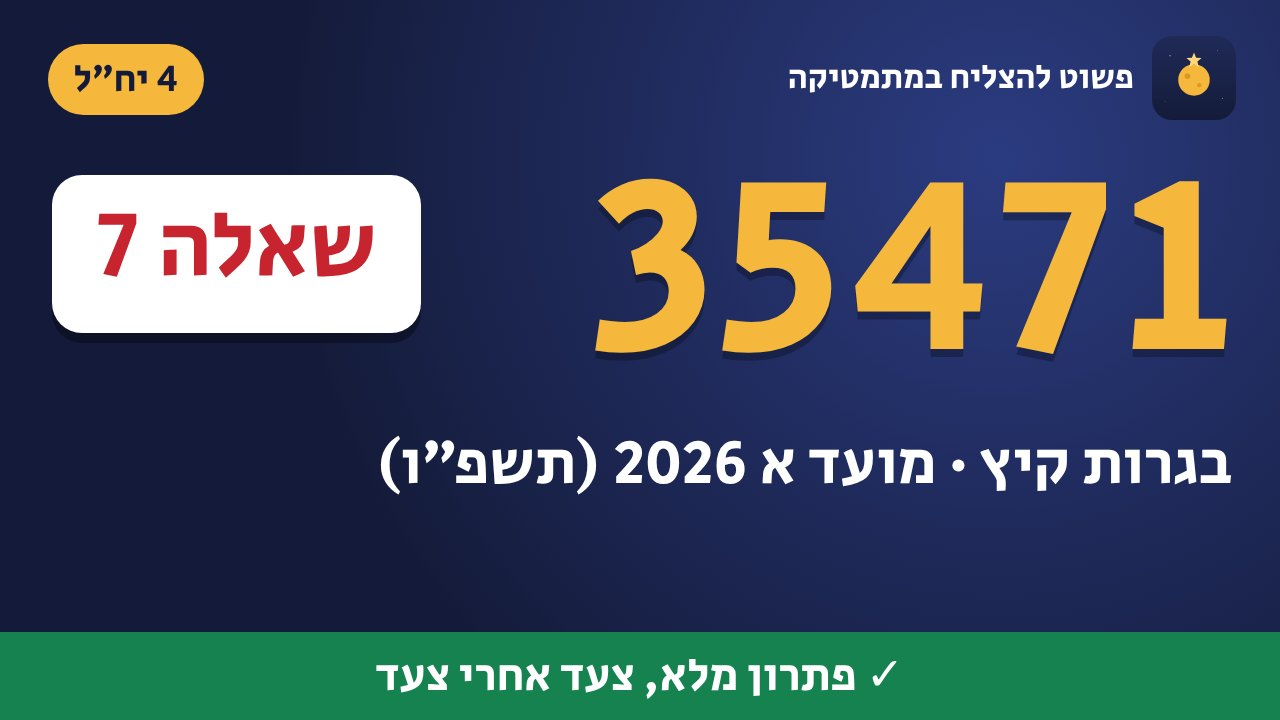
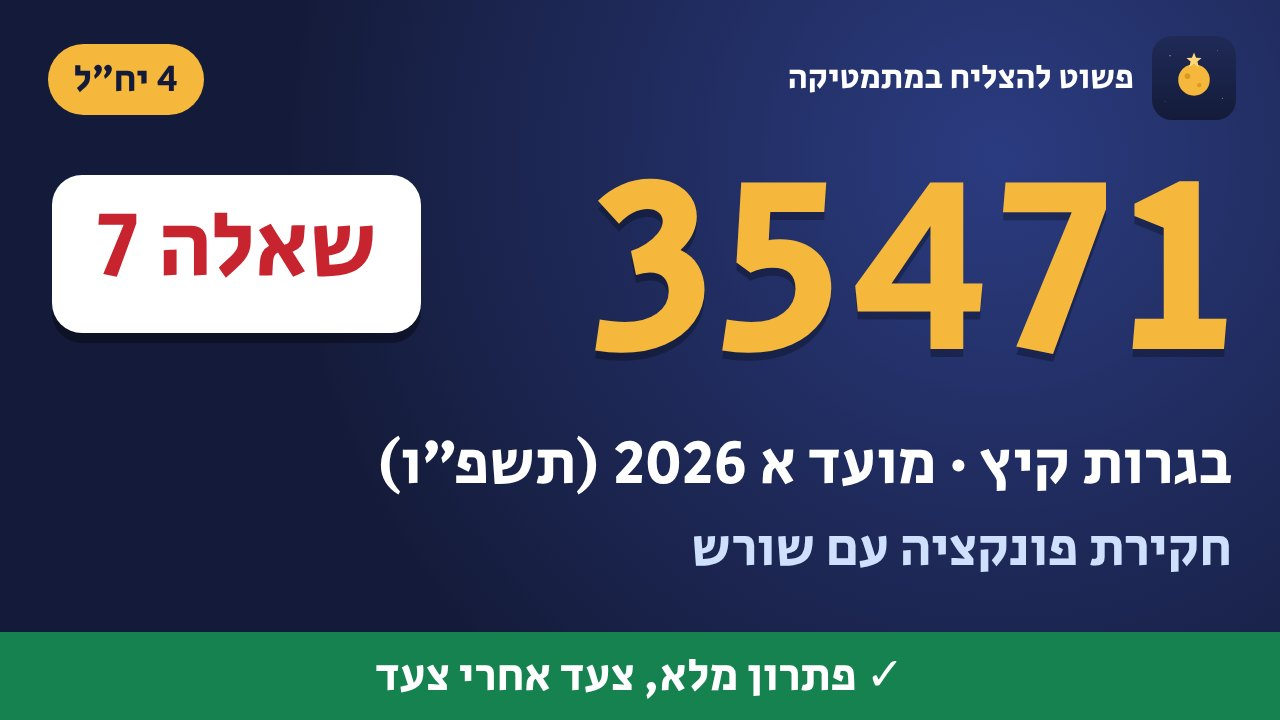
YouTube search visibility: thumbnails, playlists per questionnaire, generated titles/descriptions with chapters; playbook 5ב updated
Claude-Session: https://claude.ai/code/session_01CtRsXLRocvQwFDtsuAtwsF

Changed region(s): [[0.5312, 0.7333, 0.9688, 0.7944]]

diff --git a/tools/video/yt_meta.py b/tools/video/yt_meta.py
@@ -7,6 +7,7 @@ SEAS={8:"קיץ מועד ב",6:"קיץ מועד א",1:"חורף"}[m]
 HY={2022:'תשפ"ב',2023:'תשפ"ג',2024:'תשפ"ד',2025:'תשפ"ה',2026:'תשפ"ו',2027:'תשפ"ז'}.get(y,"")
 LV=qid[2]+' יח"ל'
 src=open(os.path.join(HERE,"exams",K,f"q{n}.py"),encoding="utf-8").read()
+if "intro2(" not in src and os.path.exists(os.path.join(HERE,"exams",K,f"s{n}.py")): src=open(os.path.join(HERE,"exams",K,f"s{n}.py"),encoding="utf-8").read()   # דוגמת סגנון 2
 mm=re.search(r'intro2\(\s*\d+\s*,\s*"([^"]*)"\s*,\s*"([^"]*)"',src)
 topic,sub=(mm.group(1),mm.group(2)) if mm else ("","")
 title=f"בגרות {qid} {SEAS} {y} שאלה {n} – {topic} | פתרון מלא"
@@ -23,6 +24,6 @@ if len(ch)>=3: D+=["פרקים:"]+[f"{ts(c['t'])} {c['l']}" for c in ch]+[""]
 D+=["פשוט להצליח במתמטיקה · אוראל פנחסי",f"#בגרות #מתמטיקה #{qid} #בגרות_במתמטיקה"]
 tags=[f"בגרות {qid}",f"{qid} {SEAS} {y}",f"{qid} {y}",f"פתרון בגרות {qid}",f"בגרות במתמטיקה {LV}",f"בגרות {SEAS} {y}",
       f"בגרות {HY}",topic,"בגרות במתמטיקה","פתרון בגרות","פשוט להצליח במתמטיקה","אוראל פנחסי"]
-out={"title":title,"description":"\n".join(D),"tags":[t.replace('"',"״") for t in tags if t],
+out={"title":title,"description":"\n".join(D),"tags":[t.replace('"',"״").replace(",","") for t in tags if t],
      "video":f"{BASE}media/yt/yt_{K}_{n}.mp4","thumbnail":f"{BASE}media/thumbs/{K}_{n}.jpg"}
 print(json.dumps(out,ensure_ascii=False,indent=1))

diff --git a/tools/video/thumb.py b/tools/video/thumb.py
@@ -11,6 +11,7 @@ font=base64.b64encode(open(os.path.join(HERE,"SecularOne.ttf"),"rb").read()).dec
 logo=open(os.path.join(HERE,"logo.svg"),encoding="utf-8").read()
 def topic(n):
   t=open(os.path.join(HERE,"exams",K,f"q{n}.py"),encoding="utf-8").read()
+  if "intro2(" not in t and os.path.exists(os.path.join(HERE,"exams",K,f"s{n}.py")): t=open(os.path.join(HERE,"exams",K,f"s{n}.py"),encoding="utf-8").read()
   mm=re.search(r'intro2\(\s*\d+\s*,\s*"([^"]*)"',t); return mm.group(1) if mm else ""
 def html(n):
   return f"""<!doctype html><html lang="he" dir="rtl"><head><meta charset="utf-8"><style>

diff --git a/tools/video/PLAYBOOK.md b/tools/video/PLAYBOOK.md
@@ -75,13 +75,14 @@ cd ~/pshut-math && git add -A && git commit -m "Bagrut videos: K" && git push
 אחרי כמה דקות בודקים שקובץ וידאו אחד ו-`sol/K.json` עונים 200 באתר החי.
 מעדכנים את הרשומה ב-`queue.json` ל-`"status":"done"` ועושים commit ו-push.
 
-## 5ב. יוטיוב (אם יש בהרצה כלים של Zapier ליוטיוב)
-- מרנדרים גרסת יוטיוב לכל שאלה: `YT=1 python3 ../../build.py qN out/yt_K_N.mp4` (בלי "הבנת?").
-- מארחים את הקבצים בכתובת ציבורית: מעתיקים ל-`media/yt/` (לא נכנס לאתר עצמו), דוחפים, ומחכים שהכתובת תענה 200.
-- מעלים עם Zapier: `YouTubeV4CLIAPI` → `upload_video` (title, description, video=כתובת הקובץ, privacy_status public, category_id 27 = חינוך, made_for_kids false, default_language he, tags). הערוץ: "פשוט להצליח במתמטיקה" (UCZ4zlk-QN7rHPXG8Hc8gJ-Q).
-- כותרת: `בגרות <שאלון> <עונה> <שנה> שאלה N – <נושא> | פתרון מלא צעד אחרי צעד`. בתיאור: מה בשאלה, וקישור ל-https://orelpinchasi.github.io/pshut-math/bagrut.html#K
-- לא דרך Metricool (20 פוסטים בחודש, והם לסרטון השיווק). Zapier חוסם ("throttled") אחרי כמה העלאות רצופות — מעלים עד 4 בבת אחת, ואת השאר בהרצה הבאה. אם יוטיוב עונה שעברו את מכסת ההעלאות היומית — עוצרים וממשיכים מחר.
-- רושמים את מזהה הסרטון ב-`tools/video/youtube.json` (`{"K_N": "videoId"}`).
+## 5ב. יוטיוב (העלאה + שיפור החיפוש) — אוראל: "שהסרטונים יופיעו ראשונים בחיפוש ביוטיוב ובגוגל"
+- מרנדרים גרסת יוטיוב לכל שאלה: `YT=1 python3 ../../build.py qN out/yt_K_N.mp4` (בלי "הבנת?"). הרינדור כותב גם את הפרקים ל-`yt_chapters.json` בתיקיית הבחינה (מעלים אותו ל-git). אם הסרטון כבר רונדר: `YT=1 CH_ONLY=1 python3 ../../build.py qN x.mp4` (רק פרקים, משתמש בקריינות השמורה).
+- תמונה ממוזערת לכל שאלה: מהשורש `python3 tools/video/thumb.py K 1 2 3 ...` ← `media/thumbs/K_N.jpg` (משמשת גם את גוגל בדפי הפתרון).
+- מארחים: מעתיקים את `out/yt_*.mp4` ל-`media/yt/`, מוסיפים את `media/thumbs/` ו-`yt_chapters.json`, דוחפים, ומחכים שהכתובות יענו 200.
+- כותרת/תיאור/תגיות: `python3 tools/video/yt_meta.py K N` (מדפיס JSON: title, description עם פרקים וקישורים לדף הפתרון, tags, video, thumbnail). לא כותבים ידנית.
+- מעלים עם Zapier: `YouTubeV4CLIAPI` → `upload_video` עם הערכים מ-yt_meta (video=כתובת הקובץ, privacy_status public, category_id 27, made_for_kids false, default_language he, default_audio_language he). אחר כך: `upload_video_thumbnail` (video_id, thumbnail=כתובת התמונה), ו-`add_video_to_playlist` לפלייליסט של השאלון מ-`tools/video/yt_playlists.json`. אם אין פלייליסט לשאלון — יוצרים עם `_zap_raw_request` (POST https://www.googleapis.com/youtube/v3/playlists?part=snippet,status, כותרת "בגרות <שאלון> (<n> יח״ל) – פתרונות מלאים לכל המועדים", public) ורושמים את המזהה ב-yt_playlists.json.
+- הערוץ: "פשוט להצליח במתמטיקה" (UCZ4zlk-QN7rHPXG8Hc8gJ-Q). לא דרך Metricool. Zapier חוסם ("throttled") אחרי כמה העלאות רצופות — עד 4 העלאות בהרצה, והשאר בהרצה הבאה (יש גם משימה יומית נפרדת ב-13:17 שמעלה את מה שמחכה). אם יוטיוב עונה שעברו את מכסת ההעלאות היומית — עוצרים.
+- רושמים את מזהה הסרטון ב-`tools/video/youtube.json` (`{"K_N": "videoId"}`) ומריצים `python3 tools/seo_build.py`, כדי שדף הפתרון בגוגל יקשר לסרטון ביוטיוב (embedUrl). commit + push.
 
 ## 6. מגבלות
 - נפח: `du -sh media/bagrut` חייב להישאר מתחת ל-900MB. אם עוברים את זה, עוצרים ומדווחים.
